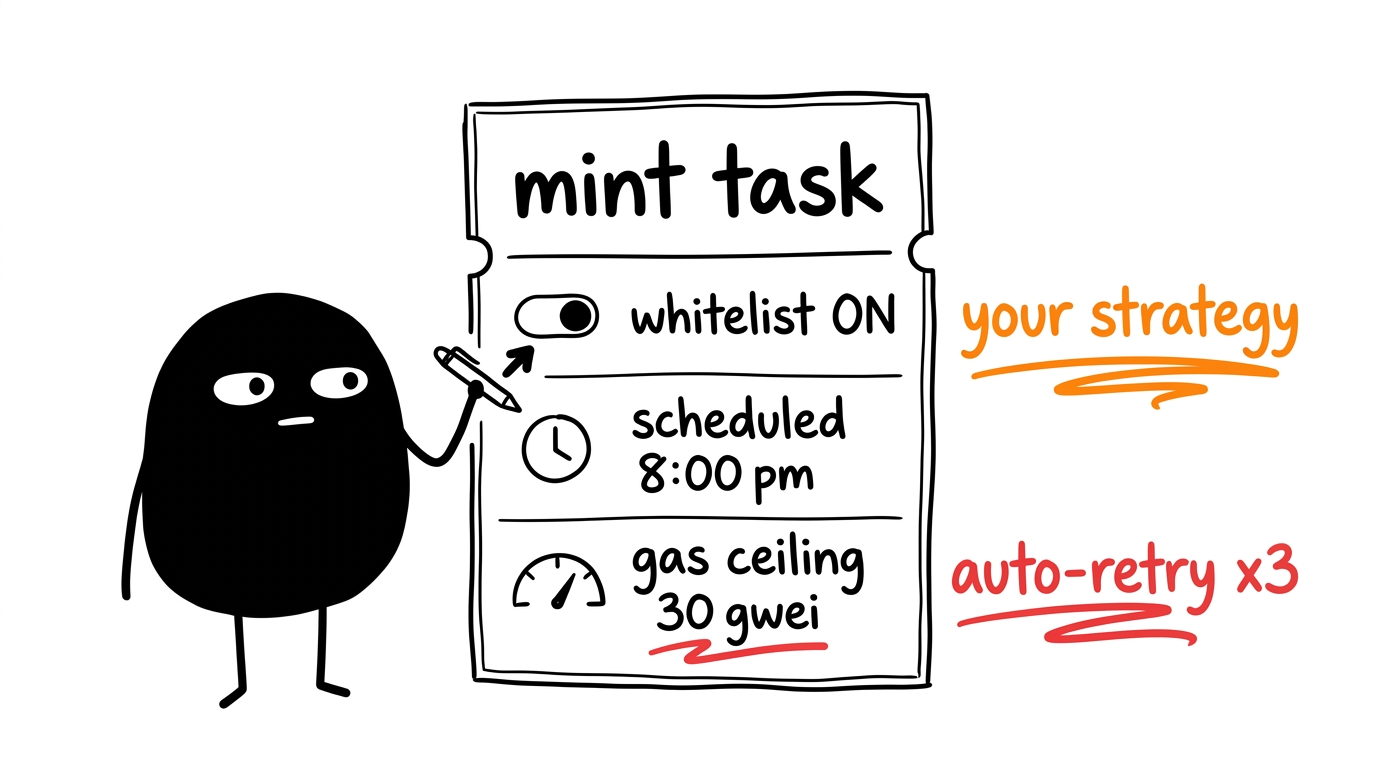
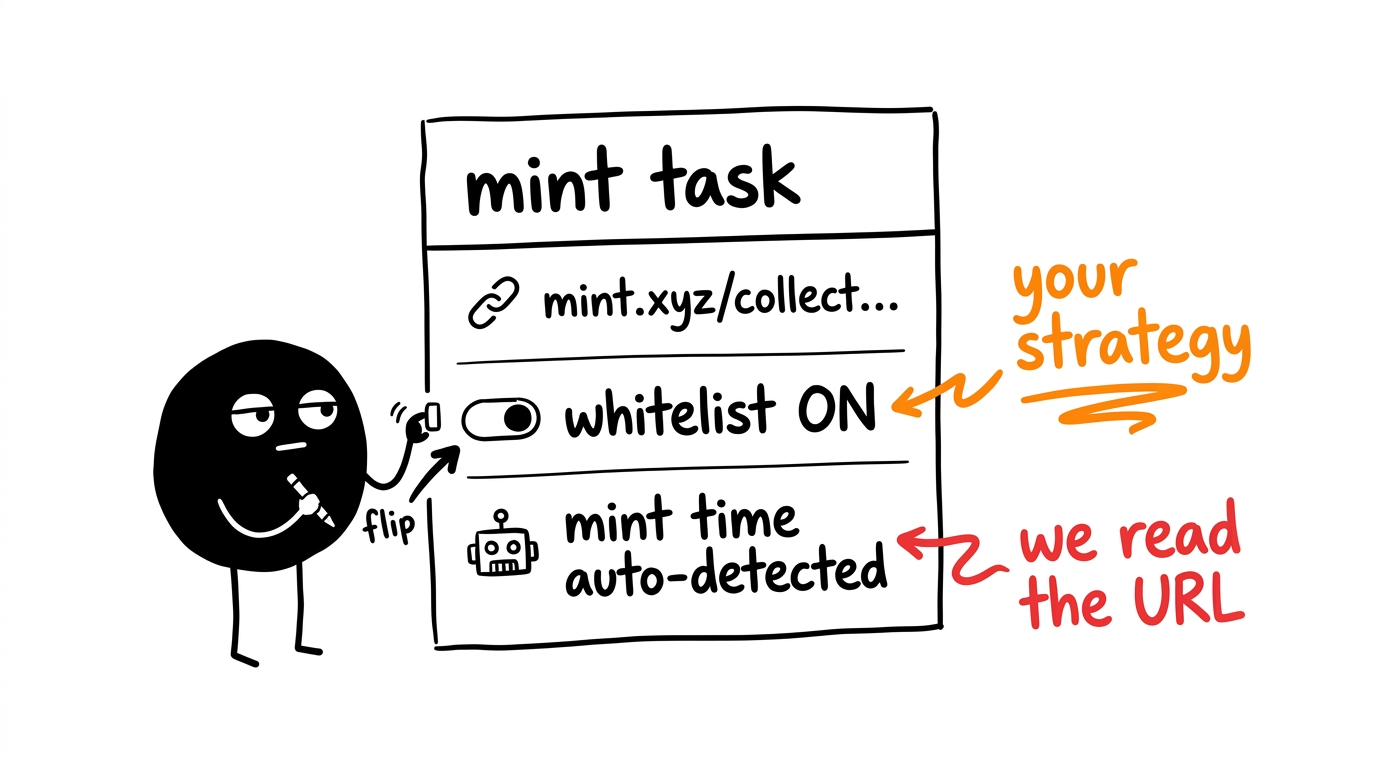
feat(mints): remove manual schedule time, mint time is auto-detected from URL
- Strip Schedule Time (optional) input from Queue Mint modal on /mints.
  Backend already derives scheduledTime from the launchpad URL, so the
  manual override was misleading. Replace it with a short info banner
  explaining that AutoMint reads phase timing from the URL and fires
  the instant it opens.
- Drop scheduleTime from MintsForm type, reducer initial state, and the
  create-mint POST payload. Server behaviour is unchanged; task display
  of task.scheduledTime still shows the URL-detected time on task cards.
- Simplify submit button label to always read 'Queue Now'.
- Regenerate workflow step 03 illustration so the mint-task ticket now
  shows: mint URL row, whitelist toggle ('your strategy'), and 'mint
  time auto-detected' ('we read the URL') instead of a manual schedule.

Changed region(s): [[0.0625, 0.0938, 0.9688, 0.9375]]

diff --git a/src/app/(authenticated)/mints/mints-client.tsx b/src/app/(authenticated)/mints/mints-client.tsx
@@ -30,7 +30,7 @@ type MintTask = {
 };
 
 type WalletRecord = { id: string; address: string; nickname: string | null; chain: string; walletType: WalletType; isDefault: boolean; };
-type MintsForm = { mintUrl: string; wlMode: boolean; scheduleTime: string };
+type MintsForm = { mintUrl: string; wlMode: boolean };
 type MintsState = {
   saving: boolean; updatingId: string | null; deletingId: string | null;
   queueOpen: boolean; error: string | null; success: string | null;
@@ -47,7 +47,7 @@ type MintsAction =
 const initialState: MintsState = {
   saving: false, updatingId: null, deletingId: null, queueOpen: false,
   error: null, success: null, formError: null,
-  form: { mintUrl: '', wlMode: false, scheduleTime: '' },
+  form: { mintUrl: '', wlMode: false },
 };
 
 function reducer(state: MintsState, action: MintsAction): MintsState {
@@ -261,7 +261,7 @@ export default function MintsClient() {
     if (!trimmedUrl) { dispatch({ type: 'SET_FORM_ERROR', message: 'Mint URL or contract address is required.' }); return; }
     if (!isValidMintInput(trimmedUrl)) { dispatch({ type: 'SET_FORM_ERROR', message: 'Enter a valid URL or 0x contract address.' }); return; }
     dispatch({ type: 'START_SAVING' });
-    createMint.mutate({ mintUrl: trimmedUrl, wlMode: state.form.wlMode, scheduleTime: state.form.scheduleTime || null });
+    createMint.mutate({ mintUrl: trimmedUrl, wlMode: state.form.wlMode });
   }
 
   const filtered = useMemo(() => {
@@ -408,14 +408,13 @@ export default function MintsClient() {
             </p>
           )}
 
-          <Input
-            label="Schedule Time (optional)"
-            type="datetime-local"
-            value={state.form.scheduleTime}
-            onChange={e => dispatch({ type: 'PATCH_FORM', patch: { scheduleTime: e.target.value } })}
-            leftIcon={<CalendarClock className="h-3.5 w-3.5" />}
-            hint="Leave blank to queue immediately"
-          />
+          <p className="flex items-start gap-1.5 rounded-lg border border-border/60 bg-surface-hover px-3 py-2 text-[11px] leading-relaxed text-muted">
+            <CalendarClock className="mt-0.5 h-3 w-3 shrink-0 text-primary" />
+            <span>
+              Mint time is auto-detected from the URL. No manual scheduling needed &mdash; AutoMint reads the
+              collection, extracts the phase timing, and fires the moment it opens.
+            </span>
+          </p>
 
           <div className="flex gap-3 pt-2">
             <Button type="button" variant="secondary" onClick={() => dispatch({ type: 'CLOSE_QUEUE' })} className="flex-1">
@@ -423,7 +422,7 @@ export default function MintsClient() {
             </Button>
             <Button type="submit" variant="neon" loading={state.saving} className="flex-1" glow>
               <Zap className="h-3.5 w-3.5" />
-              {state.form.scheduleTime ? 'Schedule' : 'Queue Now'}
+              {state.saving ? 'Queueing...' : 'Queue Now'}
             </Button>
           </div>
         </form>